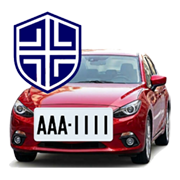
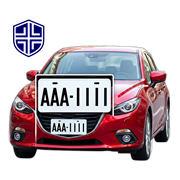
Add files via upload

diff --git a/index.html b/index.html
@@ -194,16 +194,14 @@ async function startCamera(){
 }
 $('retry').addEventListener('click',startCamera);
 
-// Future database adapter: return {status:'found',students:[{name,className}]},
-// {status:'not_found'}, or {status:'pending'}. No database call is made yet.
-async function lookupPlate(plate){return {status:'pending'};}
 function renderDatabase(data){
   const list=$('students');list.replaceChildren();list.hidden=true;
   if(data.status==='found' && Array.isArray(data.students) && data.students.length){
     $('database-status').textContent='辨識成功／已找到學生';
-    for(const student of data.students){const item=document.createElement('li');item.textContent=[student.name,student.className].filter(Boolean).join('　');list.appendChild(item);}list.hidden=false;
+    for(const student of data.students){const item=document.createElement('li');item.textContent=[student.name,student.englishName].filter(Boolean).join('　');list.appendChild(item);}list.hidden=false;
   }else if(data.status==='not_found'){$('database-status').textContent='查無此車牌，請確認車牌或重新辨識。';}
-  else{$('database-status').textContent='車牌辨識成功／等待資料庫查詢（尚未接入）';}
+  else if(data.status==='error'){$('database-status').textContent=data.message || '無法讀取學生名單';}
+  else{$('database-status').textContent='請更新電腦端 server.py，才能查詢學生名單。';}
 }
 async function captureAndRecognize(){
   if(busy || healthController)return;
@@ -228,8 +226,7 @@ async function captureAndRecognize(){
     const plate=typeof data.plate==='string'?data.plate.trim():'';
     if(!plate){message('辨識不成功，請重試','error');$('database-status').textContent='';return;}
     $('plate').textContent=plate;message('車牌辨識成功，請核對號碼。');
-    try{const match=await lookupPlate(plate);if(id===generation)renderDatabase(match);}
-    catch(e){if(id===generation)$('database-status').textContent='車牌辨識成功／資料庫查詢失敗，請稍後再試。';}
+    renderDatabase(data.lookup || {status:'unavailable'});
   }catch(e){
     if(id!==generation)return;
     message('辨識不成功，請重試','error');
